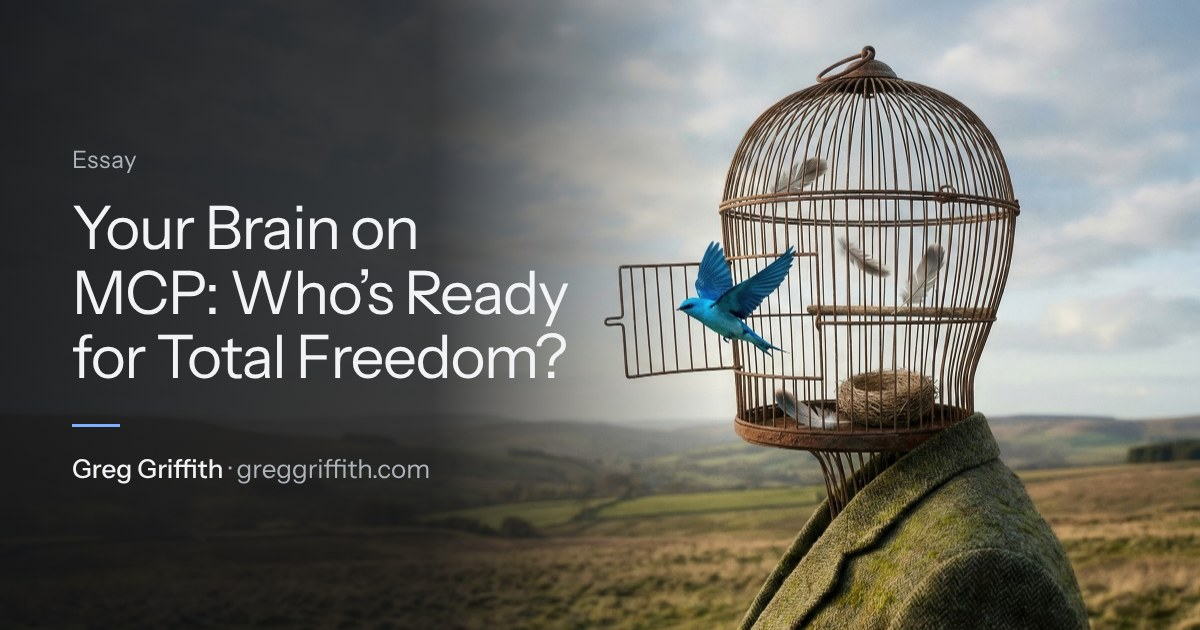
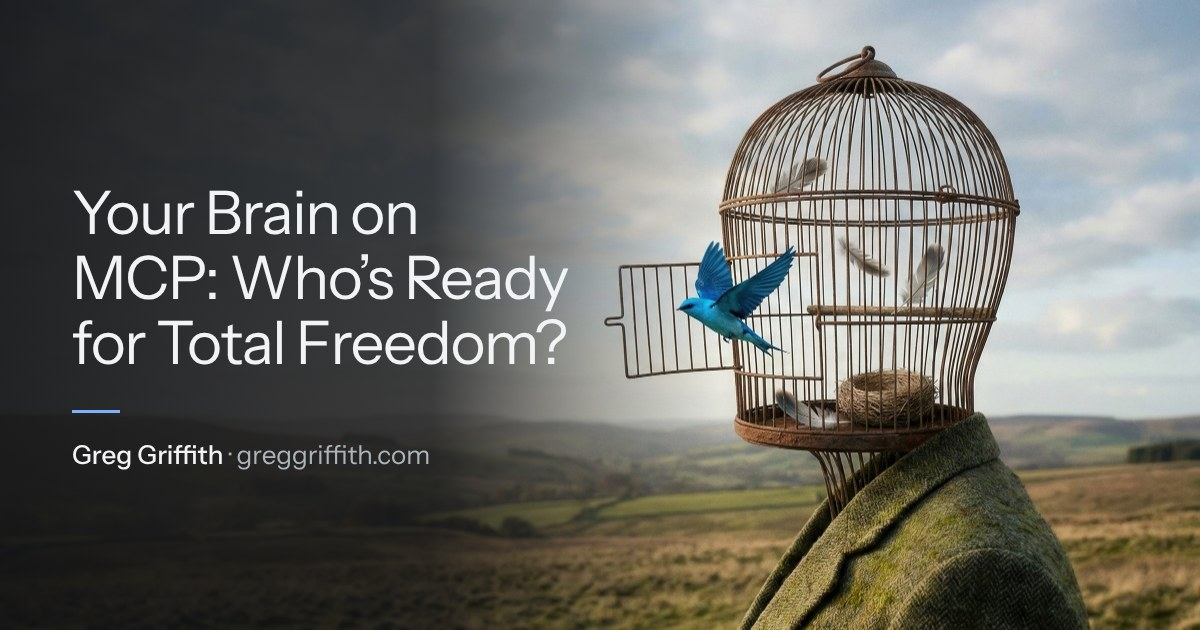
Share card without the 'Essay' kicker; card script in tools/
Claude-Session: https://claude.ai/code/session_01ESXYvzmg8xqagXQqgT72cA

Changed region(s): [[0.0617, 0.3016, 0.4933, 0.6032], [0.0617, 0.6333, 0.37, 0.7841], [0.0617, 0.2413, 0.1233, 0.2714]]

diff --git a/blog/your-brain-on-mcp/index.html b/blog/your-brain-on-mcp/index.html
@@ -19,7 +19,7 @@
   <meta property="og:title" content="Your Brain on MCP: Who’s Ready for Total Freedom?">
   <meta property="og:description" content="AI agents and MCP are freeing analysts from clumsy interfaces. But the structure those screens provided doesn’t vanish. It moves onto the analyst.">
   <meta property="og:url" content="https://greggriffith.com/blog/your-brain-on-mcp/">
-  <meta property="og:image" content="https://greggriffith.com/blog/your-brain-on-mcp/og.jpg">
+  <meta property="og:image" content="https://greggriffith.com/blog/your-brain-on-mcp/og.jpg?v=d42bf1bd">
   <meta property="og:image:width" content="1200">
   <meta property="og:image:height" content="630">
   <meta property="og:image:alt" content="Your Brain on MCP: Who’s Ready for Total Freedom? – an essay by Greg Griffith">
@@ -36,7 +36,7 @@
   <meta name="twitter:card" content="summary_large_image">
   <meta name="twitter:title" content="Your Brain on MCP: Who’s Ready for Total Freedom?">
   <meta name="twitter:description" content="AI agents and MCP are freeing analysts from clumsy interfaces. But the structure those screens provided doesn’t vanish. It moves onto the analyst.">
-  <meta name="twitter:image" content="https://greggriffith.com/blog/your-brain-on-mcp/og.jpg">
+  <meta name="twitter:image" content="https://greggriffith.com/blog/your-brain-on-mcp/og.jpg?v=d42bf1bd">
   <meta name="twitter:image:alt" content="Your Brain on MCP: Who’s Ready for Total Freedom? – an essay by Greg Griffith">
   <script type="application/ld+json">
 {
@@ -61,7 +61,7 @@
       "image": [
         {
           "@type": "ImageObject",
-          "url": "https://greggriffith.com/blog/your-brain-on-mcp/og.jpg",
+          "url": "https://greggriffith.com/blog/your-brain-on-mcp/og.jpg?v=d42bf1bd",
           "width": 1200,
           "height": 630
         },

diff --git a/tools/share_card.py b/tools/share_card.py
@@ -1,0 +1,34 @@
+"""Render a post's 1200x630 share card: the featured photo with the title and byline on the left.
+
+Usage: python3 tools/share_card.py <slug> "<title>"
+Reads blog/<slug>/feature-2400.jpg and writes blog/<slug>/og.jpg. Needs Playwright and Chrome.
+No kicker above the title (Greg, 2026-11-24).
+"""
+import sys, html
+from pathlib import Path
+from playwright.sync_api import sync_playwright
+repo = str(Path(__file__).resolve().parent.parent)
+slug, title = sys.argv[1:3]
+photo = f"{repo}/blog/{slug}/feature-2400.jpg"
+f4 = f"file://{repo}/fonts/instrument-sans-latin-400-normal.woff2"
+f5 = f"file://{repo}/fonts/instrument-sans-latin-500-normal.woff2"
+doc = f"""<html><head><style>
+@font-face{{font-family:I;font-weight:400;src:url('{f4}')}}@font-face{{font-family:I;font-weight:500;src:url('{f5}')}}
+*{{margin:0;box-sizing:border-box}}
+.c{{width:1200px;height:630px;position:relative;overflow:hidden;font-family:I;color:#f2f3f5;
+   background:url('file://{photo}') center/cover no-repeat}}
+.c::before{{content:"";position:absolute;inset:0;
+   background:linear-gradient(90deg, rgba(14,16,19,.92) 0%, rgba(14,16,19,.8) 36%, rgba(14,16,19,.3) 50%, rgba(14,16,19,0) 60%)}}
+.t{{position:absolute;left:72px;top:0;bottom:0;width:500px;display:flex;flex-direction:column;justify-content:center}}
+.k{{font-size:24px;letter-spacing:.02em;color:#aeb4bc}}
+.h{{font-size:60px;line-height:1.08;letter-spacing:-1.4px;margin:22px 0 34px;font-weight:400}}
+.u{{font-size:26px;color:#aeb4bc}} .u b{{font-weight:500;color:#f2f3f5}}
+.bar{{width:48px;height:3px;background:#7fb0ff;margin-bottom:26px}}
+</style></head><body><div class=c><div class=t>
+<div class=h>{html.escape(title)}</div>
+<div class=bar></div><div class=u><b>Greg Griffith</b> · greggriffith.com</div></div></div></body></html>"""
+open("/tmp/og-photo.html","w").write(doc)
+with sync_playwright() as p:
+    b = p.chromium.launch(executable_path="/usr/bin/google-chrome", args=["--no-sandbox","--allow-file-access-from-files"])
+    pg = b.new_page(viewport={"width":1200,"height":630}); pg.goto("file:///tmp/og-photo.html"); pg.wait_for_timeout(700)
+    pg.screenshot(path=f"{repo}/blog/{slug}/og.jpg", type="jpeg", quality=88); b.close()

diff --git a/tools/build.py b/tools/build.py
@@ -147,6 +147,8 @@ def post_page(p):
     folder = ROOT / "blog" / p["slug"]
     card = next((n for n in ("og.jpg", "og.png") if (folder / n).exists()), None)
     image = f"{SITE}/blog/{p['slug']}/{card}" if card else f"{SITE}/og-image.png"
+    if card:  # fingerprint, so social sites refetch the card whenever it changes
+        image += "?v=" + hashlib.sha1((folder / card).read_bytes()).hexdigest()[:8]
     feature = feature_html(p)
     post = {
         "@type": "BlogPosting",

diff --git a/README.md b/README.md
@@ -29,7 +29,8 @@ Every post has one permanent identifier: its **slug**, the short name in its add
   about 60 characters or a description past about 155, the lengths search results display. It plays the role of WordPress's database.
 - **Featured image (optional):** `blog/<slug>/feature-1200` and `feature-2400`, each as `.jpg` and `.webp`
   (metadata stripped), plus `image_alt: "…"` in the front matter. It appears under the title, at the width of the text.
-- **Share image (optional):** `blog/<slug>/og.jpg` (or `og.png`), 1200 × 630. Without one, the site image is used.
+- **Share image (optional):** `blog/<slug>/og.jpg` (or `og.png`), 1200 × 630. `python3 tools/share_card.py <slug> "<title>"`
+  makes one from the featured image: title and byline on the left, no kicker. Without one, the site image is used.
 
 Never rename a published slug. If one ever must change, keep the old folder with a page that
 redirects to the new address, so existing links keep working.
